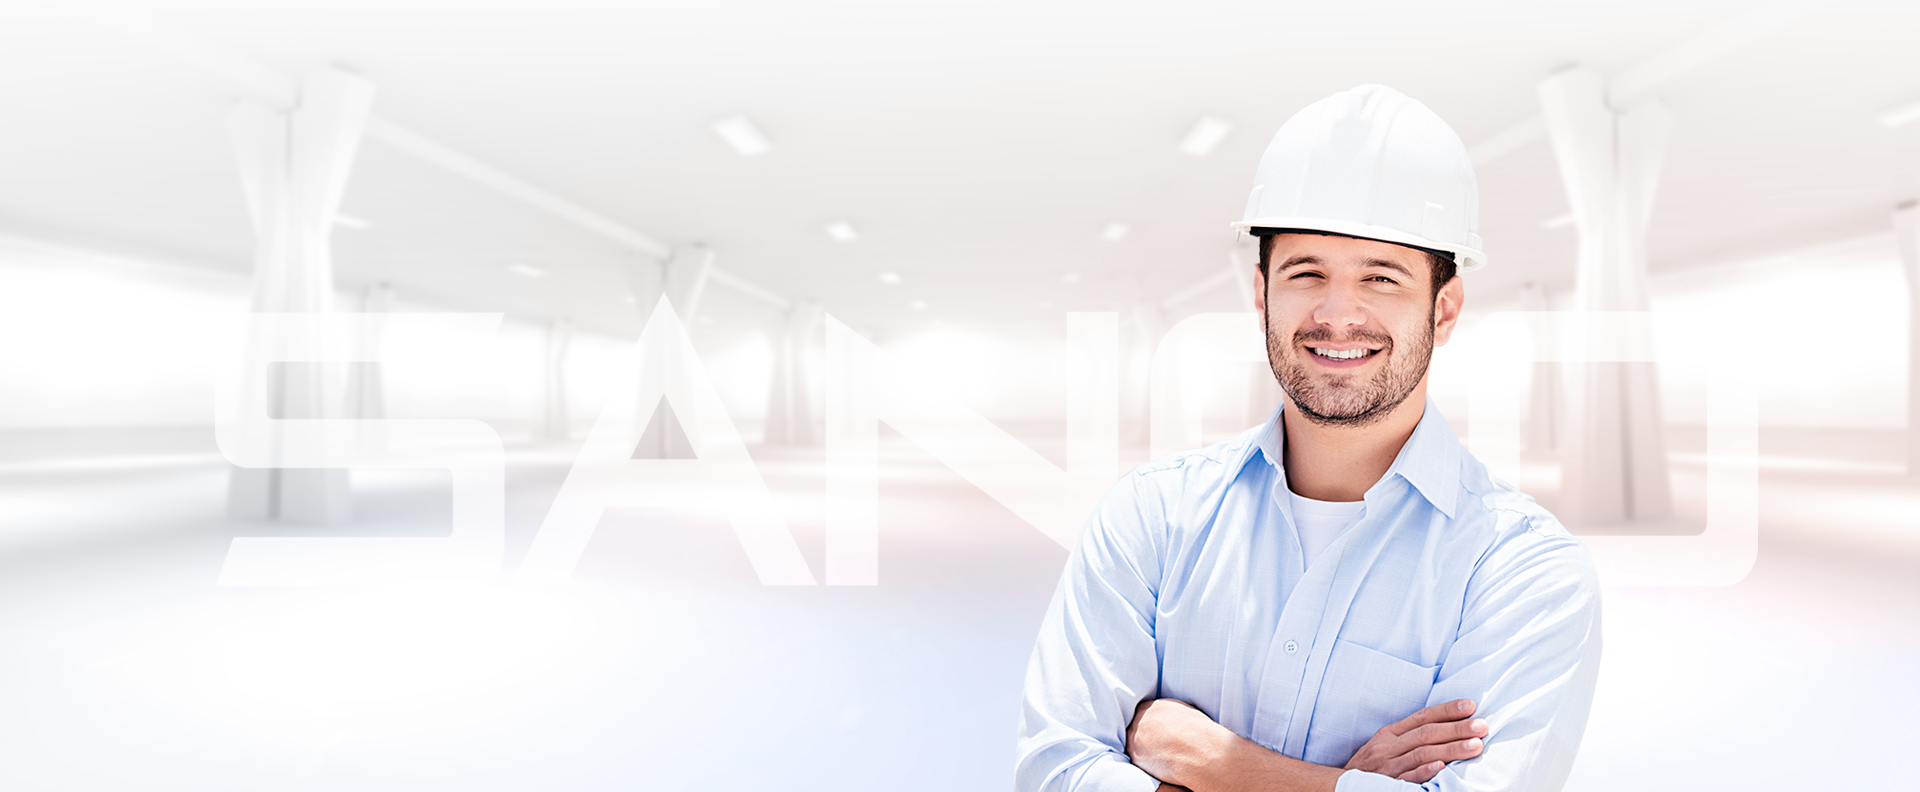
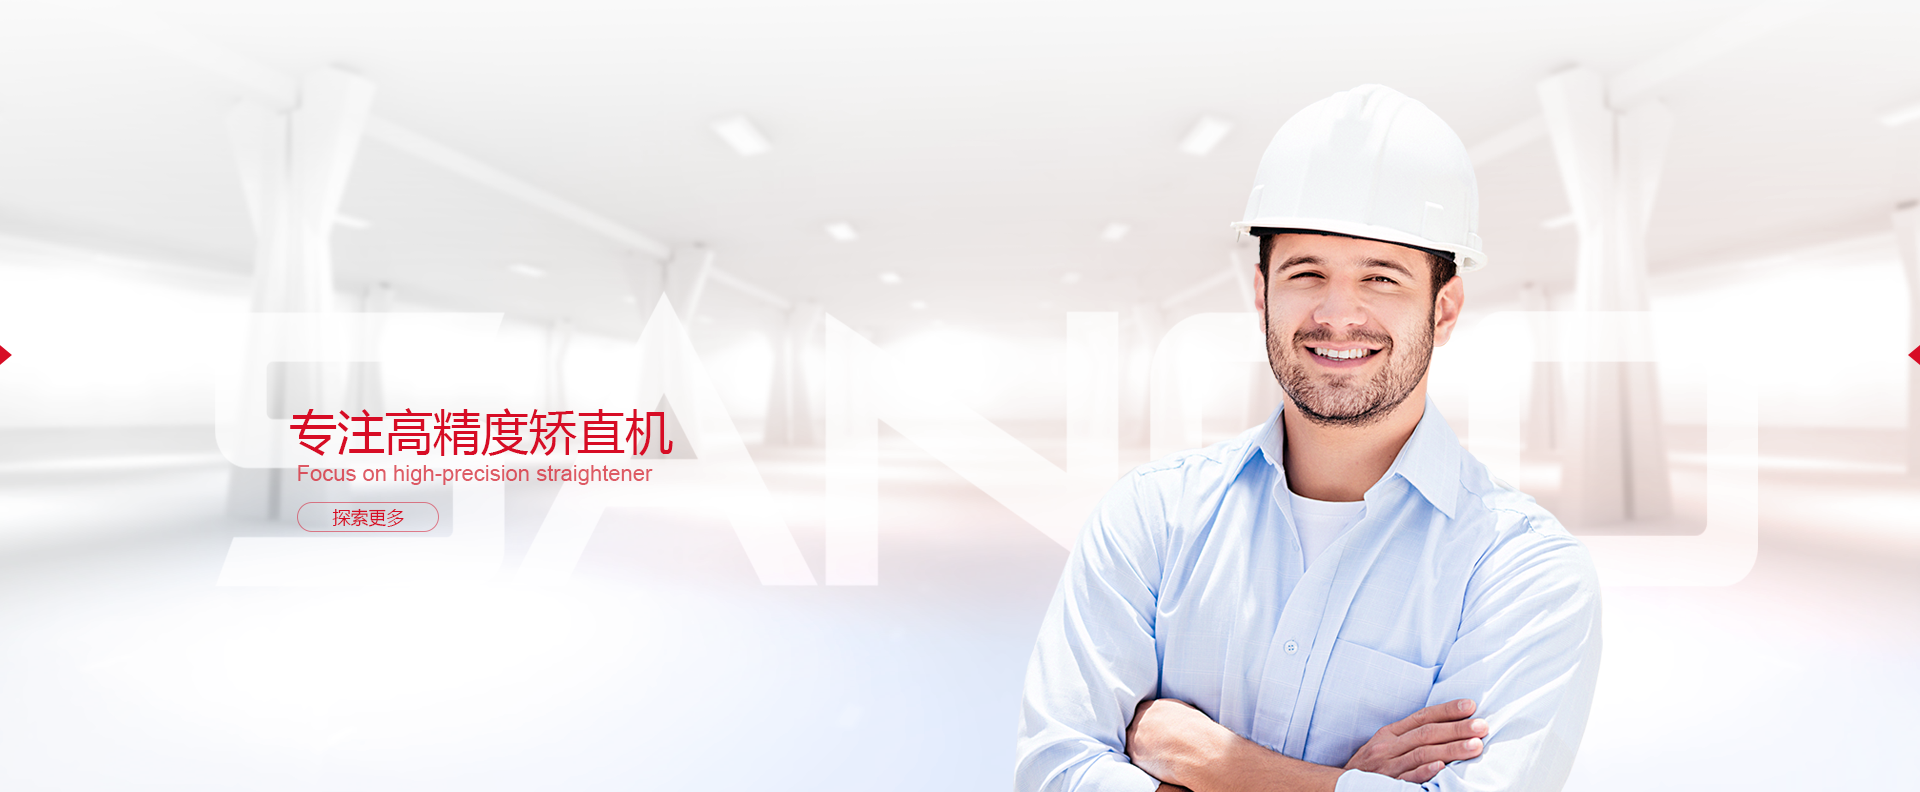
更新

Changed region(s): [[0.1562, 0.5152, 0.375, 0.6061], [0.1562, 0.6364, 0.2188, 0.6667]]

diff --git a/index.html b/index.html
@@ -16,14 +16,14 @@
 
 <body>
 
-    <div class="container">
+    <div class="container-fluid">
         <h1 class="logo img-responsive">
             <img class="img-responsive center-block" src="./img/logo.png" alt="LOGO">
         </h1>
     </div>
 
     <header class="navbar navbar-static-top bs-docs-nav" id="top">
-        <div class="container" id="navContainer">
+        <div class="container-fluid" id="navContainer">
             <div class="navbar-header">
                 <button class="navbar-toggle" id="navToggleBtn" type="button" data-toggle="collapse" data-target="#bs-navbar"
                     aria-controls="bs-navbar" aria-expanded="true">
@@ -46,16 +46,25 @@
         </div>
     </header>
 
-    <section class="banner">
-        <div class="banner-content img-responsive">
-            <img class="img-responsive center-block" src="./img/banner_1.png" alt="上科banner图片">
-            <div class="banner-text">
-                <div class="banner-text-content">
-                    <p>专注高精度矫直机</p>
-                    <p class="hidden-xs">Focus on high-precision straightener</p>
-                </div>
-                <div class="btn-more">探索更多</div>
+    <section class="banner-content img-responsive clearfix">
+        <ul class="banner-box clearfix">
+            <li>
+                <a href="javascript:;"><img class="center-block" src="./img/banner_1.png" alt="上科banner图片"></a>
+            </li>
+            <li>
+                <a href="javascript:;"><img class="center-block" src="./img/banner_2.png" alt="上科banner图片"></a>
+            </li>
+        </ul>
+        <div class="switch-btn">
+            <span class="active"></span>
+            <span></span>
+        </div>
+        <div class="banner-text">
+            <div class="banner-text-content">
+                <p>专注高精度矫直机</p>
+                <p class="hidden-xs">Focus on high-precision straightener</p>
             </div>
+            <div class="btn-more">探索更多</div>
         </div>
     </section>
     <section class="main about">

diff --git a/css/style.css b/css/style.css
@@ -34,7 +34,7 @@ header {
 
 .logo {
     position: absolute;
-    left: 10.5%;
+    left: 5%;
     top: 0px;
     width: 120px;
     z-index: 9;
@@ -48,6 +48,11 @@ nav ul li {
     margin: 0px 10px;
     cursor: pointer;
     font-size: 14px;
+}
+
+#bs-navbar {
+    position: absolute;
+    right: 5%;
 }
 
 .navbar-header .navbar-toggle .icon-bar {
@@ -87,14 +92,11 @@ nav ul li:hover a {
     background: #111;
 }
 
-.banner-content {
-    position: relative;
-}
-
 .banner-text {
     position: absolute;
     left: 20%;
     top: 40%;
+    display: none;
 }
 
 .banner-text-content {
@@ -112,13 +114,52 @@ nav ul li:hover a {
 }
 
 /* header end */
+
+/* banner start */
+.banner-content {
+    position: relative;
+    overflow: hidden;
+}
+
+.banner-box {
+    transition: all .2s;
+}
+
+.banner-box li {
+    width: 100%;
+    float: left;
+}
+
+.switch-btn {
+    position: absolute;
+    left: 50%;
+    transform: translateX(-50%);
+    bottom: 10%;
+}
+
+.switch-btn span {
+    display: inline-block;
+    width: 24px;
+    height: 4px;
+    background: none;
+    border: 1px solid #929292;
+    cursor: pointer;
+}
+
+.switch-btn .active {
+    border: 0 none;
+    background: #d70c25;
+}
+
+/* banner end */
+
 /* main start */
 .main {
     padding: 20px
 }
 
 .main .main-container {
-    width: 80%;
+    width: 60%;
     margin: 0px auto;
 }
 
@@ -466,10 +507,6 @@ nav ul li:hover a {
         padding-left: 10px;
     }
 
-    .logo {
-        width: 180px;
-    }
-
     .navbar .container {
         position: relative;
     }
@@ -489,9 +526,8 @@ nav ul li:hover a {
         background: none;
     }
 
-    header h1 {
-        float: left;
-        width: 180px;
+    .logo {
+        width: 200px;
     }
 
     .navbar-collapse ul li {
@@ -611,9 +647,8 @@ nav ul li:hover a {
 
 /* 768888888888888888888888888888888888888888888888888888888888888888888888888888888888888888888888888888888888 */
 @media (min-width: 992px) {
-    header h1 {
-        float: left;
-        width: 200px;
+    .logo {
+        width: 220px;
     }
 
     .about p {

diff --git a/js/index.js b/js/index.js
@@ -44,6 +44,27 @@ $(function () {
         }
     })
 
+    $('.banner-box li').css('width', document.body.offsetWidth + 'px');
+    $('.banner-box').css('width', document.body.offsetWidth * 2 + 'px');
+
+    var timer = null;
+
+    function banner(i) {
+        clearInterval(timer)
+        var l = i ? -document.body.offsetWidth : 0;
+        $('.banner-box').css('transform', 'translateX(' + l + 'px)');
+        $('.switch-btn span').eq(i).addClass('active').siblings().removeClass('active');
+        timer = setTimeout(() => {
+            banner(!i ? 1 : 0);
+        }, 5000)
+    }
+    banner(0);
+    $('.switch-btn span').on('click', function () {
+        banner($(this).index());
+        // $(this).index
+        // console.log($(this).index())
+        // $(this).addClass('active').siblings().removeClass('active');
+    })
 })
 
 /* 产品的滑动 */
